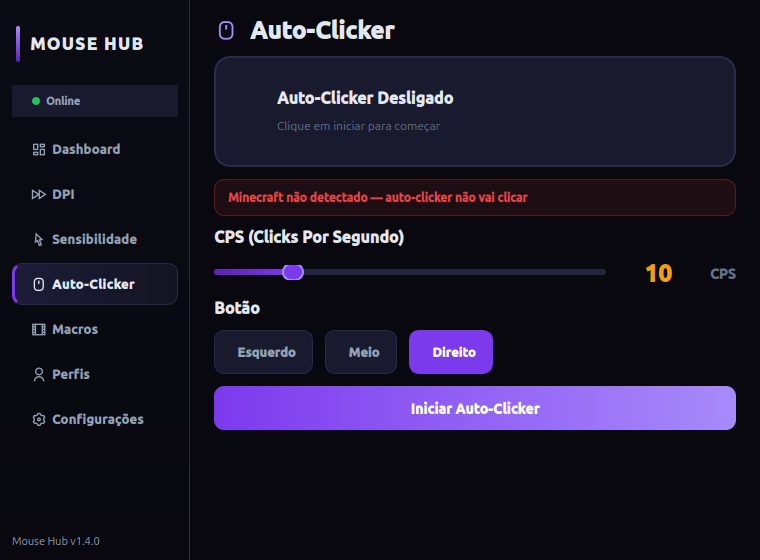
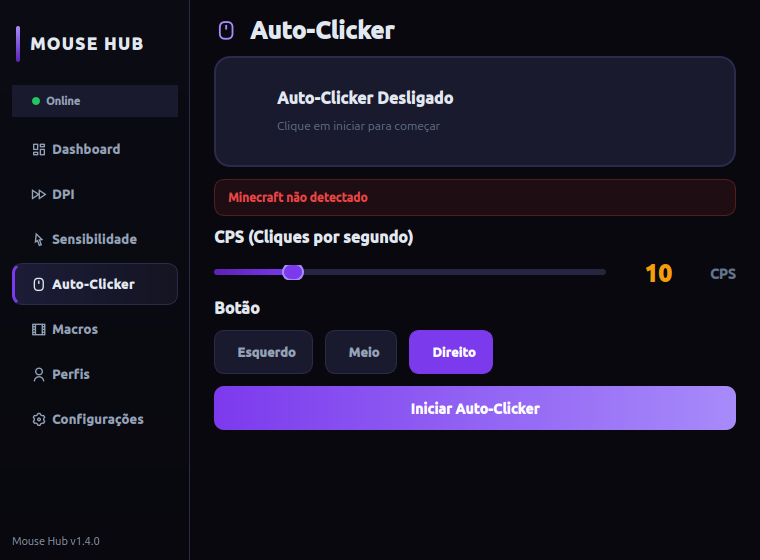
fix(ui): CPS heading microcopy in pt-BR (issue #117)
Speckit flow: specs/001-corrigir-microcopy-cps (spec + plan + tasks +
quickstart). TDD: test_clicker_cps_heading_copy written first, failed
with the old text, passes now.

- 'CPS (Clicks Por Segundo)' → 'CPS (Cliques por segundo)'
- screenshots regenerated via deterministic pipeline (3_clicker,
  small_clicker, preview — pixel diff shows only the heading line)

Closes #117

Changed region(s): [[0.3632, 0.3946, 0.5447, 0.4554], [0.4842, 0.3339, 0.6961, 0.3643]]

diff --git a/tests/test_issue66_ui_craft.py b/tests/test_issue66_ui_craft.py
@@ -148,3 +148,20 @@ def test_janela_minima_maior_que_o_piso_de_usabilidade(window):
     assert window.minimumWidth() >= 720
     assert window.minimumHeight() >= 520
     assert 190 + 500 <= window.minimumWidth()
+
+
+# ── Issue #117: microcopy do heading CPS ─────────────────────
+
+def test_clicker_cps_heading_copy(qapp, window):
+    """O heading do controle de velocidade expande a sigla em pt-BR
+    consistente (sem mistura com inglês). O rótulo de unidade "CPS"
+    do slider é outro widget e não faz parte da microcopy da issue."""
+    from PyQt5.QtWidgets import QLabel
+    window._switch_page(3)  # clicker
+    qapp.processEvents()
+    headings = [w for w in window.clicker_page.findChildren(QLabel)
+                if "CPS (" in w.text()]
+    assert headings, "heading CPS não encontrado na página do clicker"
+    for w in headings:
+        assert w.text() == "CPS (Cliques por segundo)", \
+            f"microcopy inconsistente: {w.text()!r}"

diff --git a/app/mouse_hub_app.py b/app/mouse_hub_app.py
@@ -1588,7 +1588,7 @@ class AutoClickerPage(QWidget):
         layout.addWidget(self.mc_status)
 
         # CPS Control
-        cps_title = QLabel("CPS (Clicks Por Segundo)")
+        cps_title = QLabel("CPS (Cliques por segundo)")
         cps_title.setStyleSheet(f"font-size: 16px; font-weight: 700; background: transparent;")
         layout.addWidget(cps_title)
 

diff --git a/specs/001-corrigir-microcopy-cps/plan.md b/specs/001-corrigir-microcopy-cps/plan.md
@@ -1,0 +1,105 @@
+# Implementation Plan: Microcopy consistente do heading CPS
+
+**Branch**: `001-corrigir-microcopy-cps` | **Spec**: [spec.md](spec.md) | **Created**: 2026-08-28
+
+## Summary
+
+Trocar o texto do QLabel `cps_title` na página do Auto-Clicker de
+`CPS (Clicks Por Segundo)` para `CPS (Cliques por segundo)`, com teste de
+regressão offscreen e regeneração das screenshots públicas do clicker.
+
+## Technical Context
+
+**Language/Version**: Python 3.10+ (produto), PyQt5 5.15.11 (CI)
+**Dependencies**: PyQt5, python-xlib (produção); pytest (dev) — nenhuma nova
+**Storage**: N/A (mudança de microcopy; persistência de CPS/botão não é tocada)
+**Testing**: pytest com `QT_QPA_PLATFORM=offscreen`; smoke de UI via Xvfb no CI
+**Target Platform**: Linux Mint, app desktop PyQt5
+**Project Type**: single app (`app/mouse_hub_app.py`) — sem mudança de arquitetura
+
+## Constitution Check
+
+| Princípio | Status | Nota |
+| --- | --- | --- |
+| I. Correção de hardware | N/A | Não toca em HID++/hardware |
+| II. Honestidade de estado | PASS | Texto apenas; sem mudança de estado |
+| III. Fakes no CI | PASS | Teste novo roda offscreen, sem hardware |
+| IV. Regressão com fix | PASS | Teste de heading entra no mesmo PR |
+| V. Domínio no core | PASS | Microcopy é UI; nenhuma regra de domínio |
+| VI. Menor mudança completa | PASS | 1 linha de produto + 1 teste + screenshots |
+| VII. Verificação dupla | PASS | Claim limitada ao software (texto da UI) |
+| VIII. UX honesta e consistente | PASS | É o objetivo da feature |
+
+## Project Structure
+
+### Documentation (this feature)
+
+```text
+specs/001-corrigir-microcopy-cps/
+├── spec.md          # Spec da feature (issue #117)
+├── plan.md          # Este arquivo
+├── research.md      # Fase 0 — decisões
+├── quickstart.md    # Fase 1 — como verificar
+└── tasks.md         # Gerado por /speckit-tasks
+```
+
+### Source Code (repository root)
+
+```text
+app/mouse_hub_app.py                       # linha ~1591: cps_title
+tests/test_issue66_ui_craft.py             # suíte de UI craft onde o teste entra
+docs/screenshots/                          # pipeline de screenshots (regenerar)
+```
+
+**Structure Decision**: Mudança de 1 ponto no monólito de UI existente; nenhuma
+nova estrutura. Teste entra na suíte de UI craft já existente (`offscreen`).
+
+## Phase 0: Outline & Research
+
+Decisões (research.md inline — sem unknowns):
+
+1. **Copy final**: `CPS (Cliques por segundo)`
+   - Decision: expansão completa em pt-BR, minúsculas após a primeira palavra.
+   - Rationale: a issue #117 oferece `CPS (Cliques por segundo)` ou apenas
+     `CPS`; a expansão preserva o valor didático para novos usuários e elimina
+     a mistura de idiomas. Capitalização em sentence case segue o padrão do
+     resto da UI.
+   - Alternatives considered: apenas `CPS` (mais curto, mas perde a expansão
+     que ajuda o usuário novo a entender o controle).
+
+2. **Localização do teste**: `tests/test_issue66_ui_craft.py`
+   - Decision: novo teste na suíte de craft de UI, verificando o texto do
+     QLabel via `QT_QPA_PLATFORM=offscreen`.
+   - Rationale: é a suíte que já valida textos/estados da UI sem exibir janela;
+     aderente ao Princípio III (fakes/offscreen no CI).
+   - Alternatives considered: teste novo dedicado (arquivo extra sem necessidade).
+
+3. **Screenshots**: regeneradas pelo pipeline do projeto
+   - Decision: usar o fluxo documentado em `docs/screenshots/` após o fix.
+   - Rationale: FR-004 exige screenshots atualizadas; o pipeline é a prática
+     permanente estabelecida na PR #76.
+   - Alternatives considered: nenhuma.
+
+**Output**: sem NEEDS CLARIFICATION pendentes.
+
+## Phase 1: Design & Contracts
+
+Sem modelos de dados, contratos de API ou integrações — a feature altera texto
+de um widget. `quickstart.md` documenta a verificação manual/automática.
+
+**Post-design Constitution Check**: sem violações novas (tabela acima permanece
+válida — a mudança continua sendo texto de UI + teste offscreen).
+
+## Progress Tracking
+
+**Phase Status**:
+- [x] Phase 0: Research complete
+- [x] Phase 1: Design complete
+- [ ] Phase 2: Task planning complete (/speckit-tasks)
+- [ ] Phase 3: Implementation complete
+- [ ] Phase 4: Validation complete (/speckit-converge)
+
+**Gate Status**:
+- [x] Initial Constitution Check: PASS
+- [x] Post-Design Constitution Check: PASS
+- [x] All NEEDS CLARIFICATION resolved

diff --git a/specs/001-corrigir-microcopy-cps/tasks.md b/specs/001-corrigir-microcopy-cps/tasks.md
@@ -1,0 +1,71 @@
+# Tasks: Microcopy consistente do heading CPS
+
+**Input**: Design documents from `/specs/001-corrigir-microcopy-cps/`
+
+**Prerequisites**: plan.md (required), spec.md (required), quickstart.md
+
+**Tests**: Incluídos conforme FR-005 da spec (regressão com teste, Princípio IV).
+
+## Format: `[ID] [P?] [Story] Description`
+
+- **[P]**: Can run in parallel (different files, no dependencies)
+- **[Story]**: Which user story this task belongs to (e.g., US1, US2)
+
+## Phase 1: Setup (Shared Infrastructure)
+
+- [x] T001 Feature branch `001-corrigir-microcopy-cps` ativa e spec/plan
+      commitados (spec-kit scaffolding na `chore/spec-kit-setup`)
+
+## Phase 2: User Story 1 — Heading sem mistura de idiomas (P1) 🎯 MVP
+
+**Goal**: Heading do controle CPS exibe `CPS (Cliques por segundo)`.
+
+**Independent Test**: pytest offscreen `-k cps_heading`.
+
+### Tests for User Story 1 ⚠ (escrever primeiro, ver FALHAR)
+
+- [ ] T002 [US1] Teste `test_clicker_cps_heading_copy` em
+      `tests/test_issue66_ui_craft.py`: construir página do clicker offscreen e
+      assegurar que o texto do heading é exatamente `CPS (Cliques por segundo)`
+      (deve FALHAR antes de T003)
+
+### Implementation for User Story 1
+
+- [ ] T003 [US1] Trocar literal em `app/mouse_hub_app.py` (~linha 1591):
+      `"CPS (Clicks Por Segundo)"` → `"CPS (Cliques por segundo)"`
+
+**Checkpoint**: US1 completa — heading corrigido, teste verde, comportamento
+do auto-clicker inalterado (suíte existente passa).
+
+## Phase 3: User Story 2 — Screenshots públicas atualizadas (P2)
+
+**Goal**: Screenshots do clicker refletem o novo texto.
+
+**Independent Test**: `python3 scripts/capture_screenshots.py` + inspeção dos PNGs.
+
+### Implementation for User Story 2
+
+- [ ] T004 [US2] Regenerar screenshots com
+      `python3 scripts/capture_screenshots.py` e commitar
+      `docs/screenshots/3_clicker.png`, `small_clicker.png` e `preview.png`
+
+**Checkpoint**: US2 completa — material público consistente com o produto.
+
+## Phase 4: Polish & Cross-Cutting
+
+- [ ] T005 Convergência: rodar suíte completa
+      (`TMPDIR=/tmp QT_QPA_PLATFORM=offscreen pytest tests/`), marcar
+      checkboxes da spec e registrar veredito do `/speckit-converge`
+- [ ] T006 PR: abrir/ atualizar PR vinculada à issue #117 com
+      `Closes #117` (merge é do mantenedor)
+
+## Dependencies & Execution Order
+
+- T002 → T003 (teste primeiro, ver falhar, depois o fix)
+- T003 → T004 (screenshots só depois do texto novo)
+- T004 → T005 → T006
+
+## Notes
+
+- Mudança de produto: 1 linha. Teste: 1 função. Sem dependência nova.
+- Commit após cada tarefa ou grupo lógico (regra do projeto).

diff --git a/specs/001-corrigir-microcopy-cps/quickstart.md b/specs/001-corrigir-microcopy-cps/quickstart.md
@@ -1,0 +1,30 @@
+# Quickstart: Verificar o heading CPS
+
+Pré-requisito: ambiente de dev do repo (`uv run --with pytest --project .`).
+
+## Verificação automática (teste de regressão)
+
+```bash
+TMPDIR=/tmp QT_QPA_PLATFORM=offscreen \
+  uv run --with pytest --project . python -m pytest \
+  tests/test_issue66_ui_craft.py -k cps_heading -q
+```
+
+Esperado: `1 passed` — o teste assegura que o texto do heading é exatamente
+`CPS (Cliques por segundo)`.
+
+## Verificação manual (opcional, com display)
+
+```bash
+./start.sh
+```
+
+Abrir a página **Auto-Clicker**: o heading do controle de velocidade deve ler
+`CPS (Cliques por segundo)`. Reduzir a janela à largura mínima: a copy é a
+mesma no layout small.
+
+## Regenerar screenshots
+
+Seguir o pipeline documentado em `docs/screenshots/` (prática permanente desde
+a PR #76) e conferir que `3_clicker.png` e `small_clicker.png` mostram o novo
+texto.
